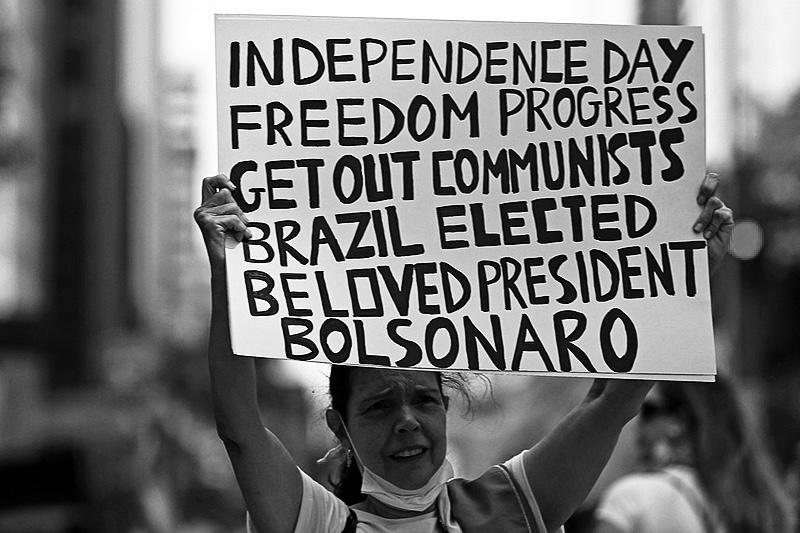
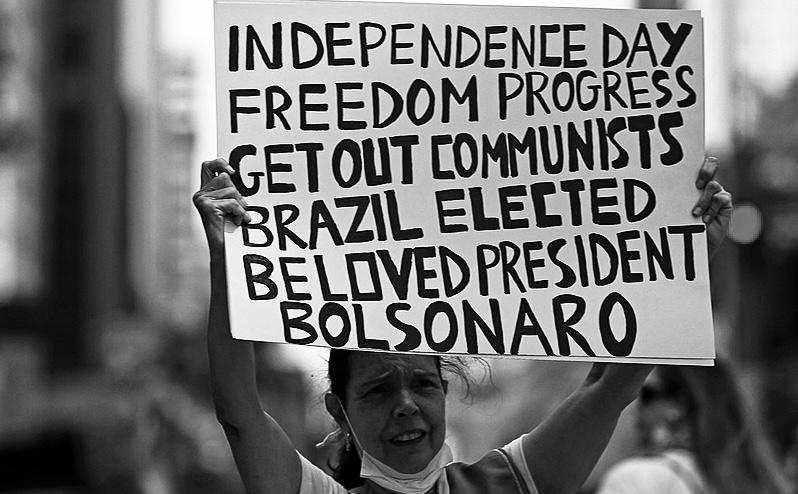
adicionando imagens no html e excluindo desnecessárias

diff --git a/pages/galeriaDeImagens.html b/pages/galeriaDeImagens.html
@@ -42,7 +42,7 @@
                         </div>
                     </div>
                     <div class="container-imagem">
-                        <img class="container-imagem--imagem" src="../assets/imagens/imagens-galeria/manifestacoes6-3.jpeg" alt="">
+                        <img class="container-imagem--imagem" src="../assets/imagens/imagens-galeria/manifestacoes6.jpeg" alt="">
                         <div class="container-imagem--descricao">
                             <p class="descricao--texto">
                                 Manifestação contra o fascismo e governo Trump
@@ -60,7 +60,7 @@
                         </div>
                     </div>
                     <div class="container-imagem">
-                        <img class="container-imagem--imagem" src="../assets/imagens/imagens-galeria/manifestacoes4-3.jpeg" alt="">
+                        <img class="container-imagem--imagem" src="../assets/imagens/imagens-galeria/manifestacoes4.jpeg" alt="">
                         <div class="container-imagem--descricao">
                             <p class="descricao--texto">
                                 Manifestações contra governo Bolsonaro e fascismo
